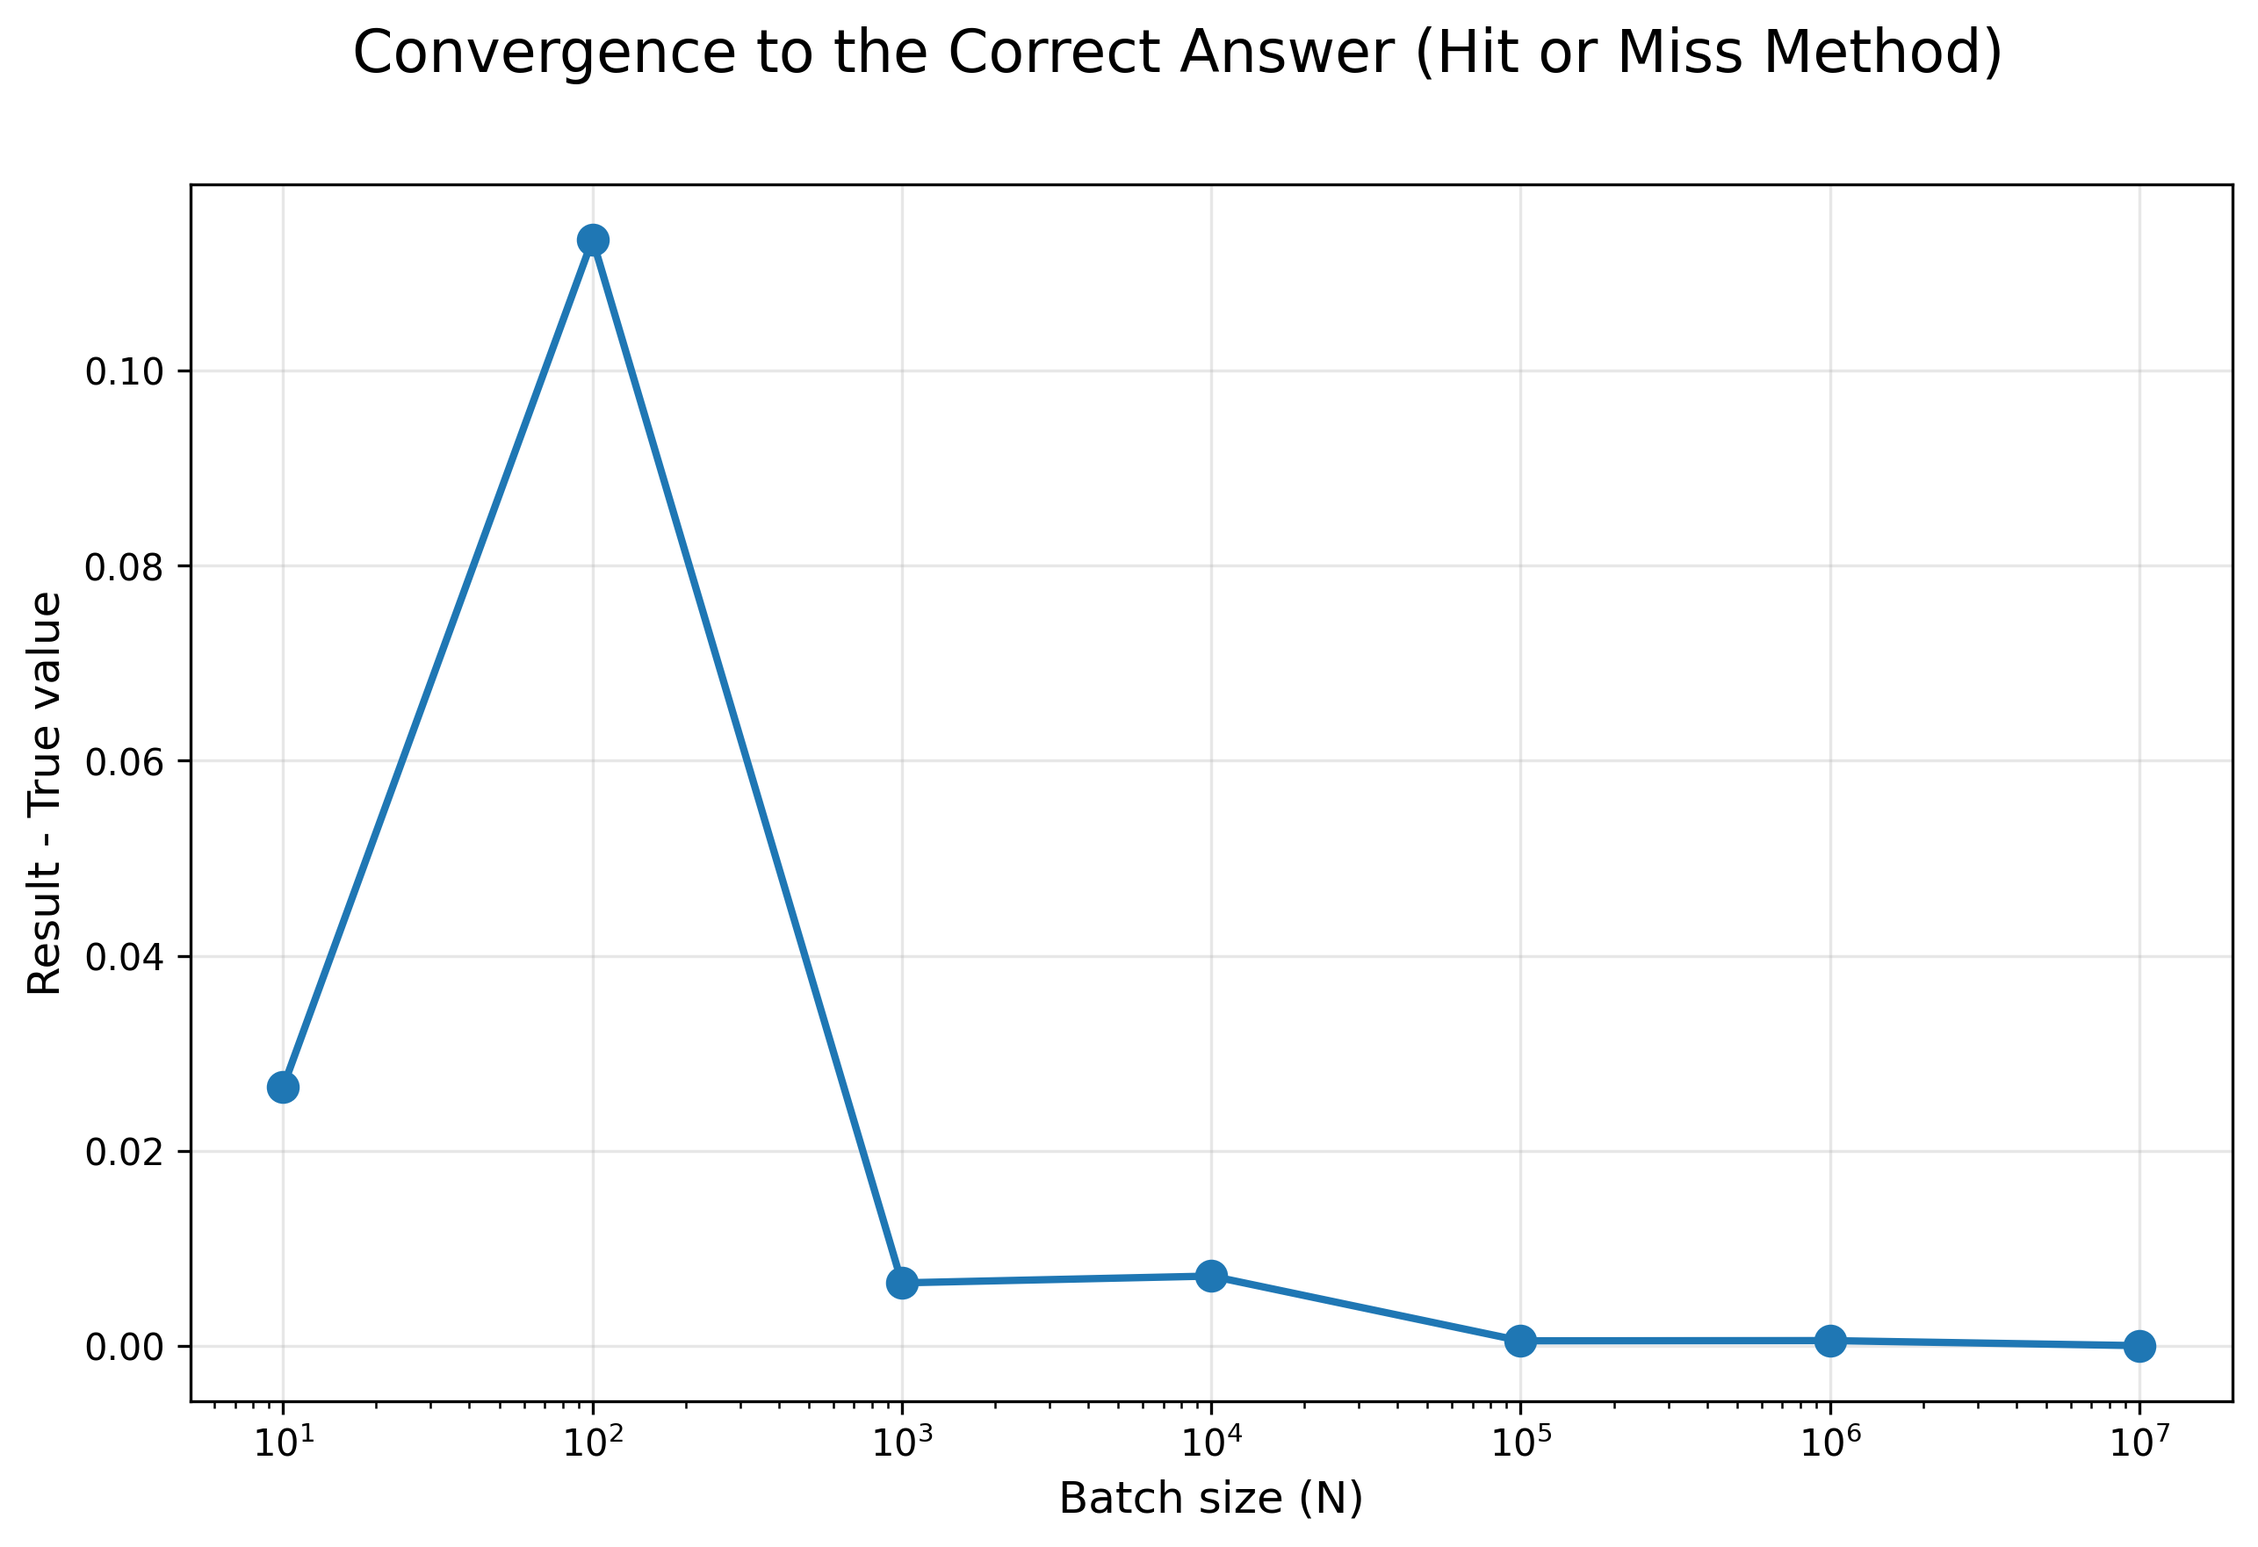
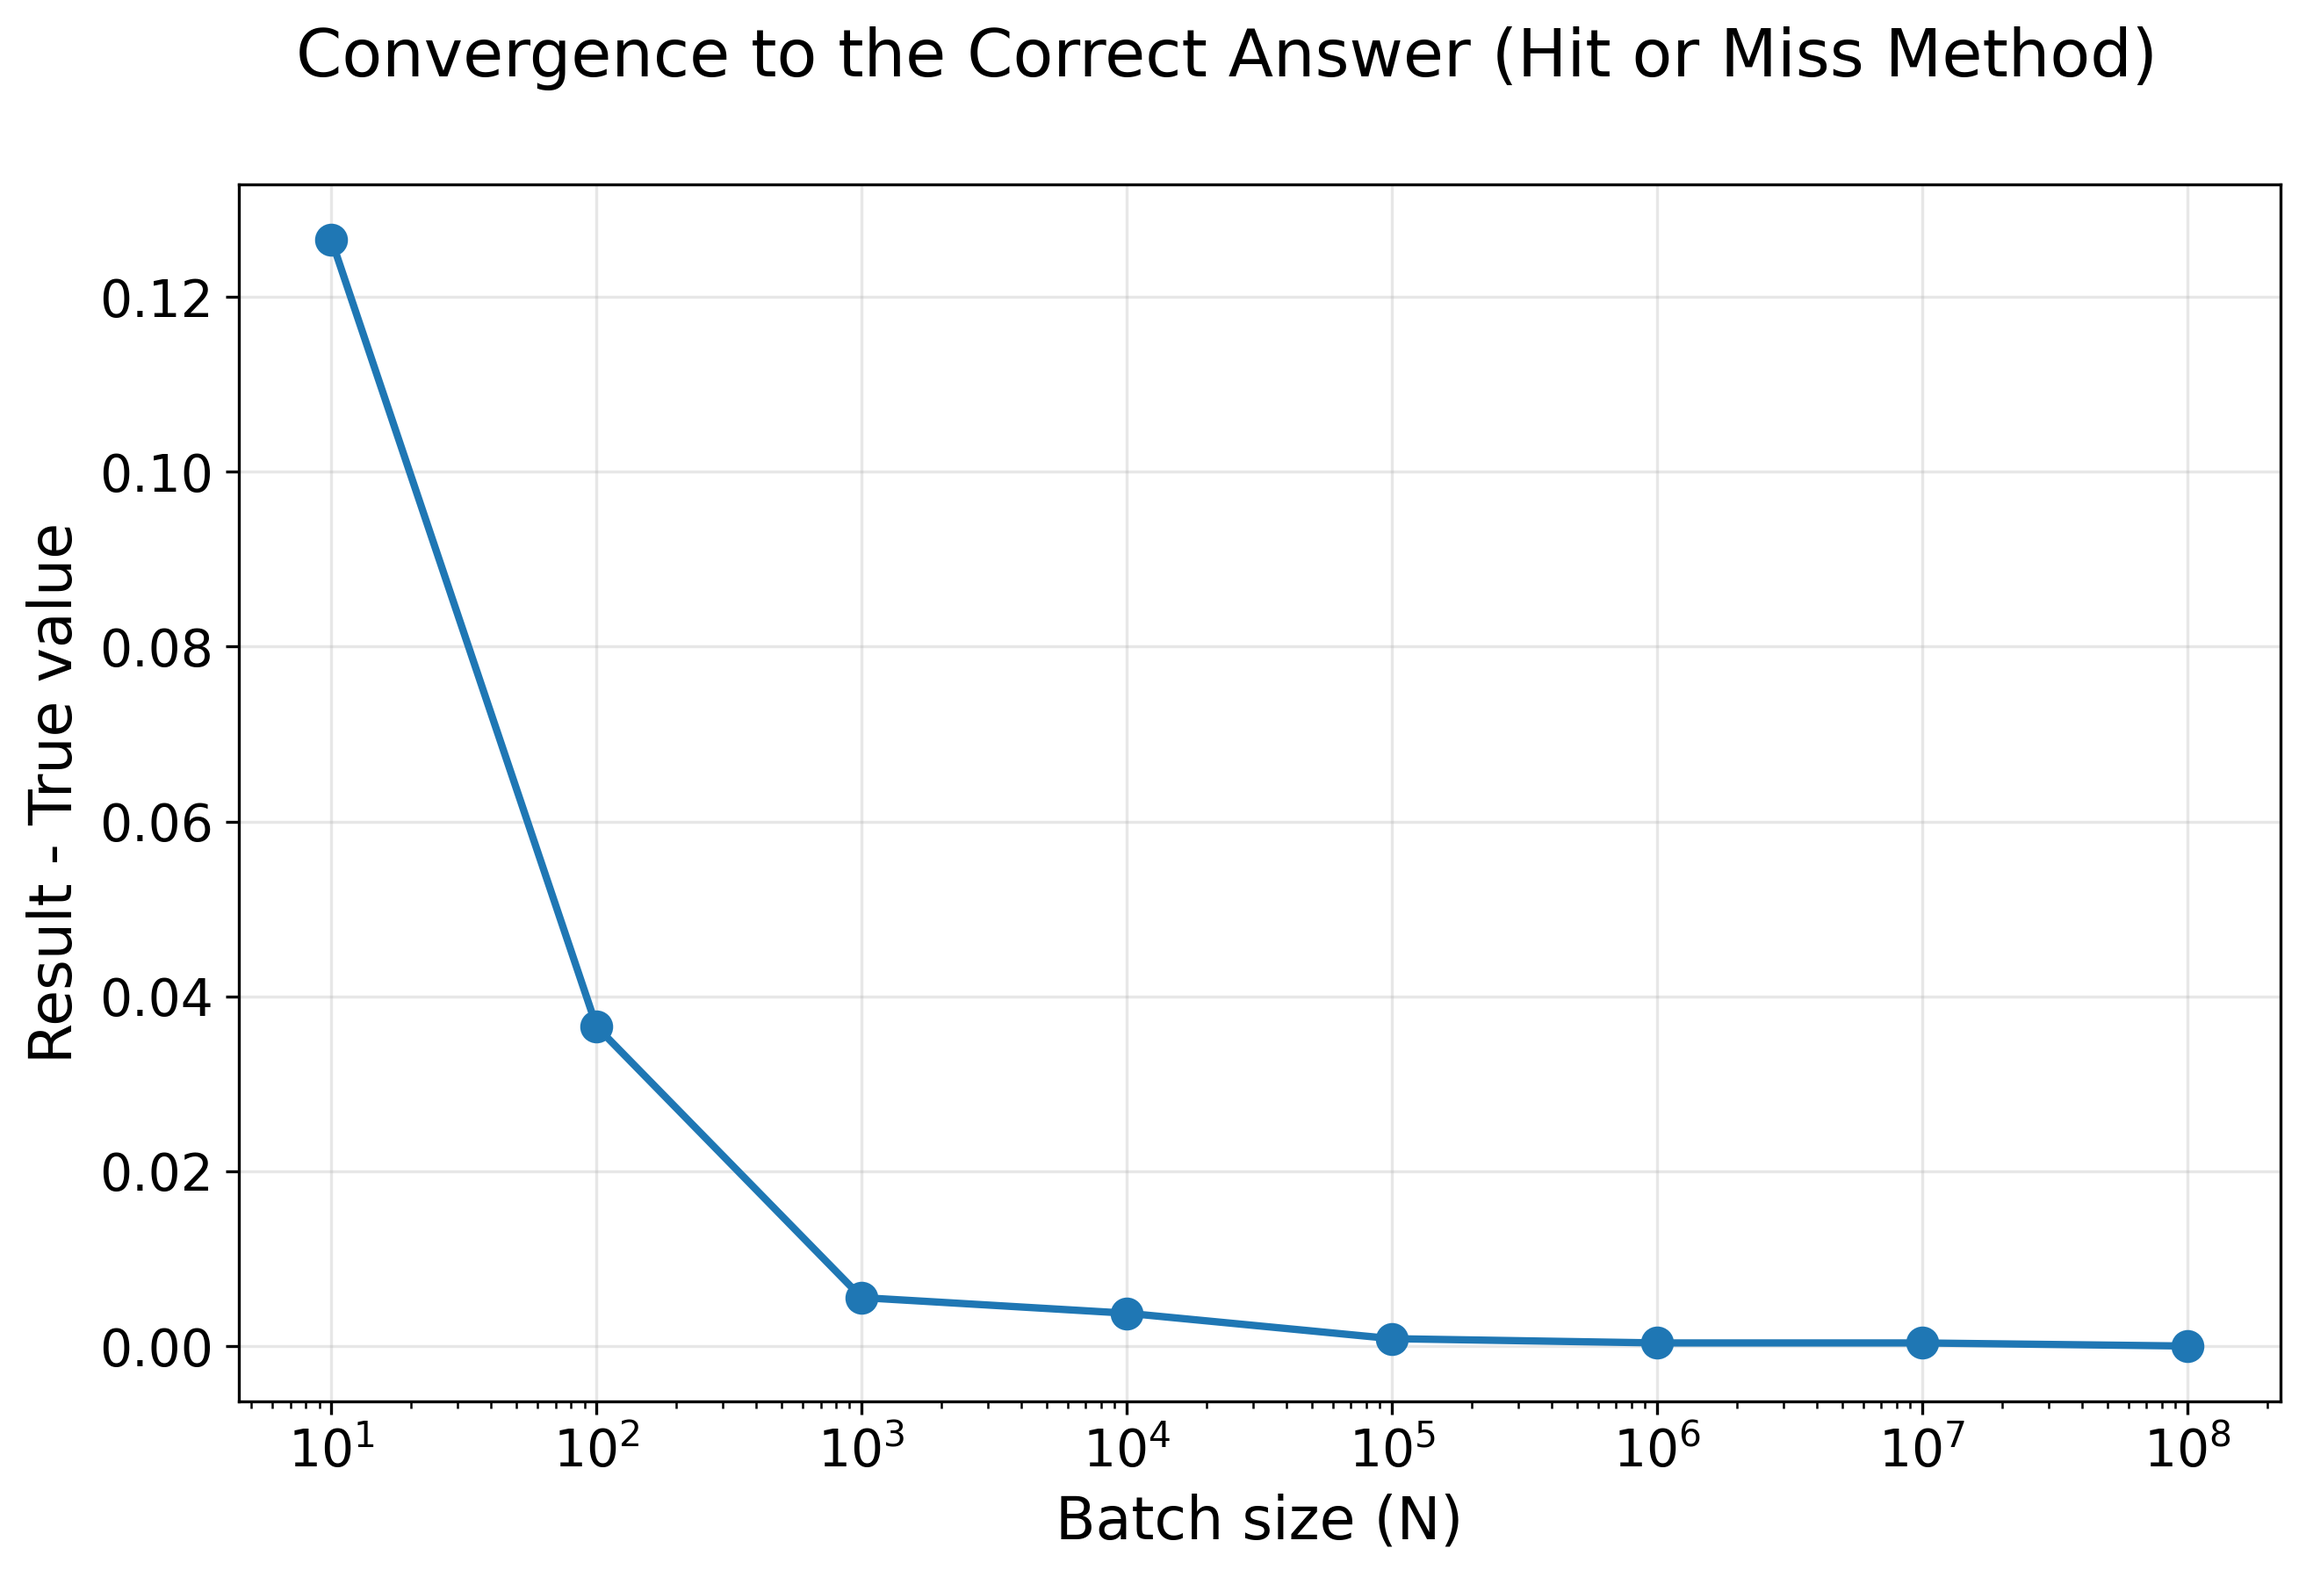
commit 1.11

diff --git a/exercise1/ex1_sampling.py b/exercise1/ex1_sampling.py
@@ -2,7 +2,7 @@ import numpy as np
 import matplotlib.pyplot as plt
 import matplotlib
 
-batch_size = [10, 100, 1000, 10000, 100000, 1000000, 10000000]
+batch_size = [10, 100, 1000, 10000, 100000, 1000000, 10000000, 100000000 ]
 true_value = np.ones(len(batch_size))*0.326543231734227
 n_repetitions = 10
 integral_values = np.zeros((n_repetitions, len(batch_size)))
@@ -43,15 +43,16 @@ std_err_mean = np.sqrt(variance/n_repetitions)
 
 ##plot Std error of the mean 
 plt.figure(figsize=(10, 6))
-plt.suptitle("Standard Error of the Mean (Sampling Mean Method)", fontsize=16)
+plt.suptitle("Standard Error of the Mean (Sampling Mean Method)", fontsize=18)
 plt.semilogx(batch_size, abs(std_err_mean), 'o', markersize=8, label='Data')
-N_theory = np.logspace(1, 7, 100)  # Da 10 a 10^7
+N_theory = np.logspace(1, 8, 100)  # Da 10 a 10^7
 # Normalization
 C = std_err_mean[0] * np.sqrt(batch_size[0]) 
 theory_curve = C / np.sqrt(N_theory)
 plt.semilogx(N_theory, theory_curve, '-', linewidth=2, color='red', label=r'Theoretical Curve: $C/\sqrt{N}$')
-plt.xlabel('Batch size (N)', fontsize=12)
-plt.ylabel('Standard Error of the Mean', fontsize=12)
+plt.xlabel('Batch size (N)', fontsize=16)
+plt.ylabel('Standard Error of the Mean', fontsize=16)
+plt.tick_params(axis='both', which='major', labelsize=14)
 plt.grid(True, alpha=0.3, which='both')
 plt.legend()
 plt.savefig("std_error_sampling.png", dpi=300, bbox_inches='tight')
@@ -59,7 +60,7 @@ plt.close()
 
 ##plot Std error of the mean (log-log)
 plt.figure(figsize=(10, 6))
-plt.suptitle("Linear Fit Standard Error of the Mean (Sampling Mean Method)", fontsize=16)
+plt.suptitle("Linear Fit Standard Error of the Mean (Sampling Mean Method)", fontsize=18)
 plt.loglog(batch_size, abs(std_err_mean), 'o', markersize=8, label='Data')
 
 ## Linear Fit log-log
@@ -69,14 +70,15 @@ log_std_err = np.log10(abs(std_err_mean))
 coefficients = np.polyfit(log_N, log_std_err, 1)
 slope = coefficients[0]
 intercept = coefficients[1]
-N_fit = np.logspace(1, 7, 100)
+N_fit = np.logspace(1, 8, 100)
 fit_curve = 10**intercept * N_fit**slope
 theo_curve_log = 10**intercept * N_fit**(-0.5)
 
 plt.loglog(N_fit, fit_curve, '--', linewidth=2, color='blue', label=rf'Fit $\propto N^{{{slope:.3f}}}$')
 plt.loglog(N_fit, theo_curve_log, '--', linewidth=2, color='red', label=rf'Theory $\propto N^{{-0.5}}$')
-plt.xlabel('Batch size (N)', fontsize=12)
-plt.ylabel('Standard Error of the Mean', fontsize=12)
+plt.xlabel('Batch size (N)', fontsize=16)
+plt.ylabel('Standard Error of the Mean', fontsize=16)
+plt.tick_params(axis='both', which='major', labelsize=14)
 plt.grid(True, alpha=0.3, which='both')
 plt.legend()
 plt.savefig("std_error_sampling_loglog_fit.png", dpi=300, bbox_inches='tight')
@@ -86,11 +88,12 @@ print(f"Fit Slope: {slope:.6f}")
 
 ## Convergence (plot the convergence for he first repetition)
 plt.figure(figsize=(10, 6))
-plt.suptitle("Convergence to the Correct Answer (Sampling Mean Method)", fontsize=16)
+plt.suptitle("Convergence to the Correct Answer (Sampling Mean Method)", fontsize=18)
 # Plot con scala logaritmica sull'asse x
 plt.semilogx(batch_size, abs(integral_values[0, :]-true_value), 'o-', markersize=8, linewidth=2)
-plt.xlabel('Batch size (N)', fontsize=12)
-plt.ylabel('Result - True value', fontsize=12)
+plt.xlabel('Batch size (N)', fontsize=16)
+plt.ylabel('Result - True value', fontsize=16)
+plt.tick_params(axis='both', which='major', labelsize=14)
 plt.grid(True, alpha=0.3)
 plt.savefig("convergence_sampling.png", dpi=300, bbox_inches='tight')
 plt.close()

diff --git a/exercise1/ex1_hitmiss.py b/exercise1/ex1_hitmiss.py
@@ -2,7 +2,7 @@ import numpy as np
 import matplotlib.pyplot as plt
 import matplotlib
 
-batch_size = [10, 100, 1000, 10000, 100000, 1000000, 10000000]
+batch_size = [10, 100, 1000, 10000, 100000, 1000000, 10000000, 100000000]
 true_value = np.ones(len(batch_size))*0.326543231734227
 n_repetitions = 10
 integral_values = np.zeros((n_repetitions, len(batch_size)))
@@ -44,15 +44,16 @@ std_err_mean = np.sqrt(variance/n_repetitions)
 
 ##plot Std error of the mean 
 plt.figure(figsize=(10, 6))
-plt.suptitle("Standard Error of the Mean (Hit or Miss Method)", fontsize=16)
+plt.suptitle("Standard Error of the Mean (Hit or Miss Method)", fontsize=18)
 plt.semilogx(batch_size, abs(std_err_mean), 'o', markersize=8, label='Data')
-N_theory = np.logspace(1, 7, 100)  # Da 10 a 10^7
+N_theory = np.logspace(1, 8, 100)  # Da 10 a 10^7
 # Normalization
 C = std_err_mean[0] * np.sqrt(batch_size[0]) 
 theory_curve = C / np.sqrt(N_theory)
 plt.semilogx(N_theory, theory_curve, '-', linewidth=2, color='red', label=r'Theoretical Curve: $C/\sqrt{N}$')
-plt.xlabel('Batch size (N)', fontsize=12)
-plt.ylabel('Standard Error of the Mean', fontsize=12)
+plt.xlabel('Batch size (N)', fontsize=16)
+plt.ylabel('Standard Error of the Mean', fontsize=16)
+plt.tick_params(axis='both', which='major', labelsize=14)
 plt.grid(True, alpha=0.3, which='both')
 plt.legend()
 plt.savefig("std_error_hitmiss.png", dpi=300, bbox_inches='tight')
@@ -60,7 +61,7 @@ plt.close()
 
 ##plot Std error of the mean (log-log)
 plt.figure(figsize=(10, 6))
-plt.suptitle("Linear Fit Standard Error of the Mean (Hit or Miss Method)", fontsize=16)
+plt.suptitle("Linear Fit Standard Error of the Mean (Hit or Miss Method)", fontsize=18)
 plt.loglog(batch_size, abs(std_err_mean), 'o', markersize=8, label='Data')
 
 ## Linear Fit log-log
@@ -70,14 +71,15 @@ log_std_err = np.log10(abs(std_err_mean))
 coefficients = np.polyfit(log_N, log_std_err, 1)
 slope = coefficients[0]
 intercept = coefficients[1]
-N_fit = np.logspace(1, 7, 100)
+N_fit = np.logspace(1, 8, 100)
 fit_curve = 10**intercept * N_fit**slope
 theo_curve_log = 10**intercept * N_fit**(-0.5)
 
 plt.loglog(N_fit, fit_curve, '--', linewidth=2, color='blue', label=rf'Fit $\propto N^{{{slope:.3f}}}$')
 plt.loglog(N_fit, theo_curve_log, '--', linewidth=2, color='red', label=rf'Theory $\propto N^{{-0.5}}$')
-plt.xlabel('Batch size (N)', fontsize=12)
-plt.ylabel('Standard Error of the Mean', fontsize=12)
+plt.xlabel('Batch size (N)', fontsize=16)
+plt.ylabel('Standard Error of the Mean', fontsize=16)
+plt.tick_params(axis='both', which='major', labelsize=14)
 plt.grid(True, alpha=0.3, which='both')
 plt.legend()
 plt.savefig("std_error_hitmiss_loglog_fit.png", dpi=300, bbox_inches='tight')
@@ -87,11 +89,12 @@ print(f"Fit Slope: {slope:.6f}")
 
 ## Convergence (plot the convergence for he first repetition)
 plt.figure(figsize=(10, 6))
-plt.suptitle("Convergence to the Correct Answer (Hit or Miss Method)", fontsize=16)
+plt.suptitle("Convergence to the Correct Answer (Hit or Miss Method)", fontsize=18)
 # Plot con scala logaritmica sull'asse x
 plt.semilogx(batch_size, abs(integral_values[0, :]-true_value), 'o-', markersize=8, linewidth=2)
-plt.xlabel('Batch size (N)', fontsize=12)
-plt.ylabel('Result - True value', fontsize=12)
+plt.xlabel('Batch size (N)', fontsize=16)
+plt.ylabel('Result - True value', fontsize=16)
+plt.tick_params(axis='both', which='major', labelsize=14)
 plt.grid(True, alpha=0.3)
 plt.savefig("convergence_hitmiss.png", dpi=300, bbox_inches='tight')
 plt.close()
